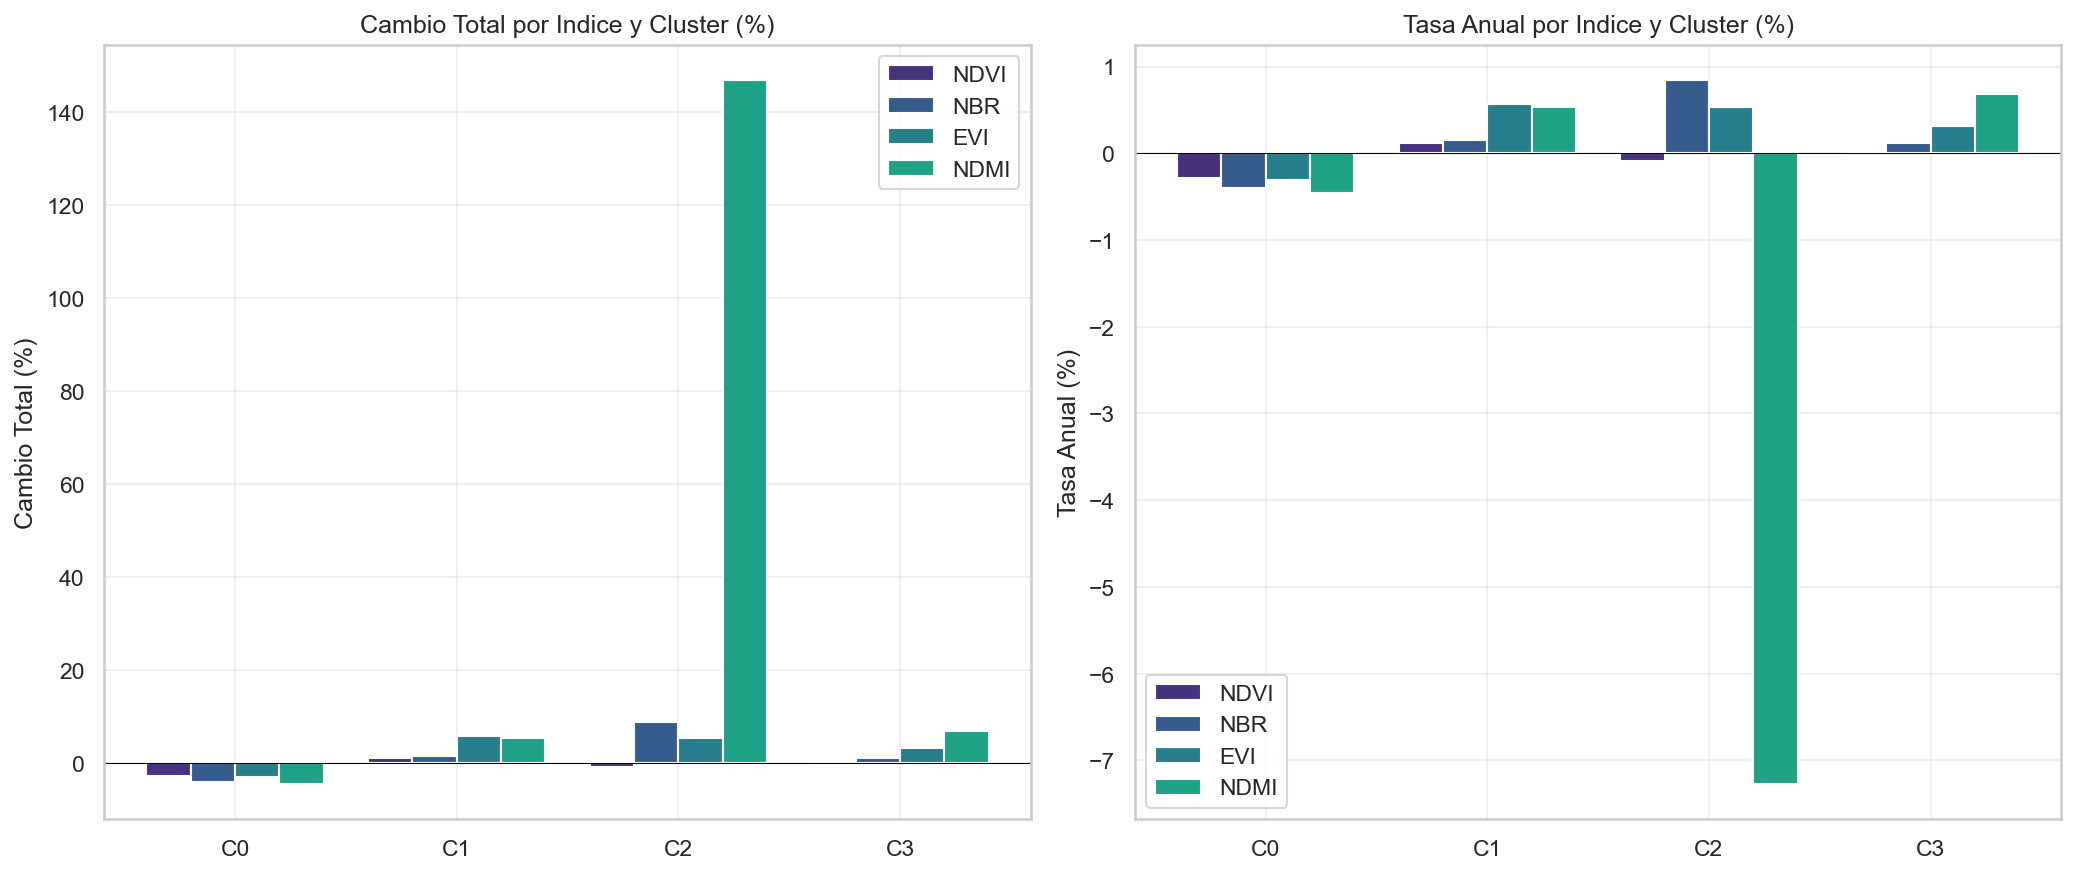
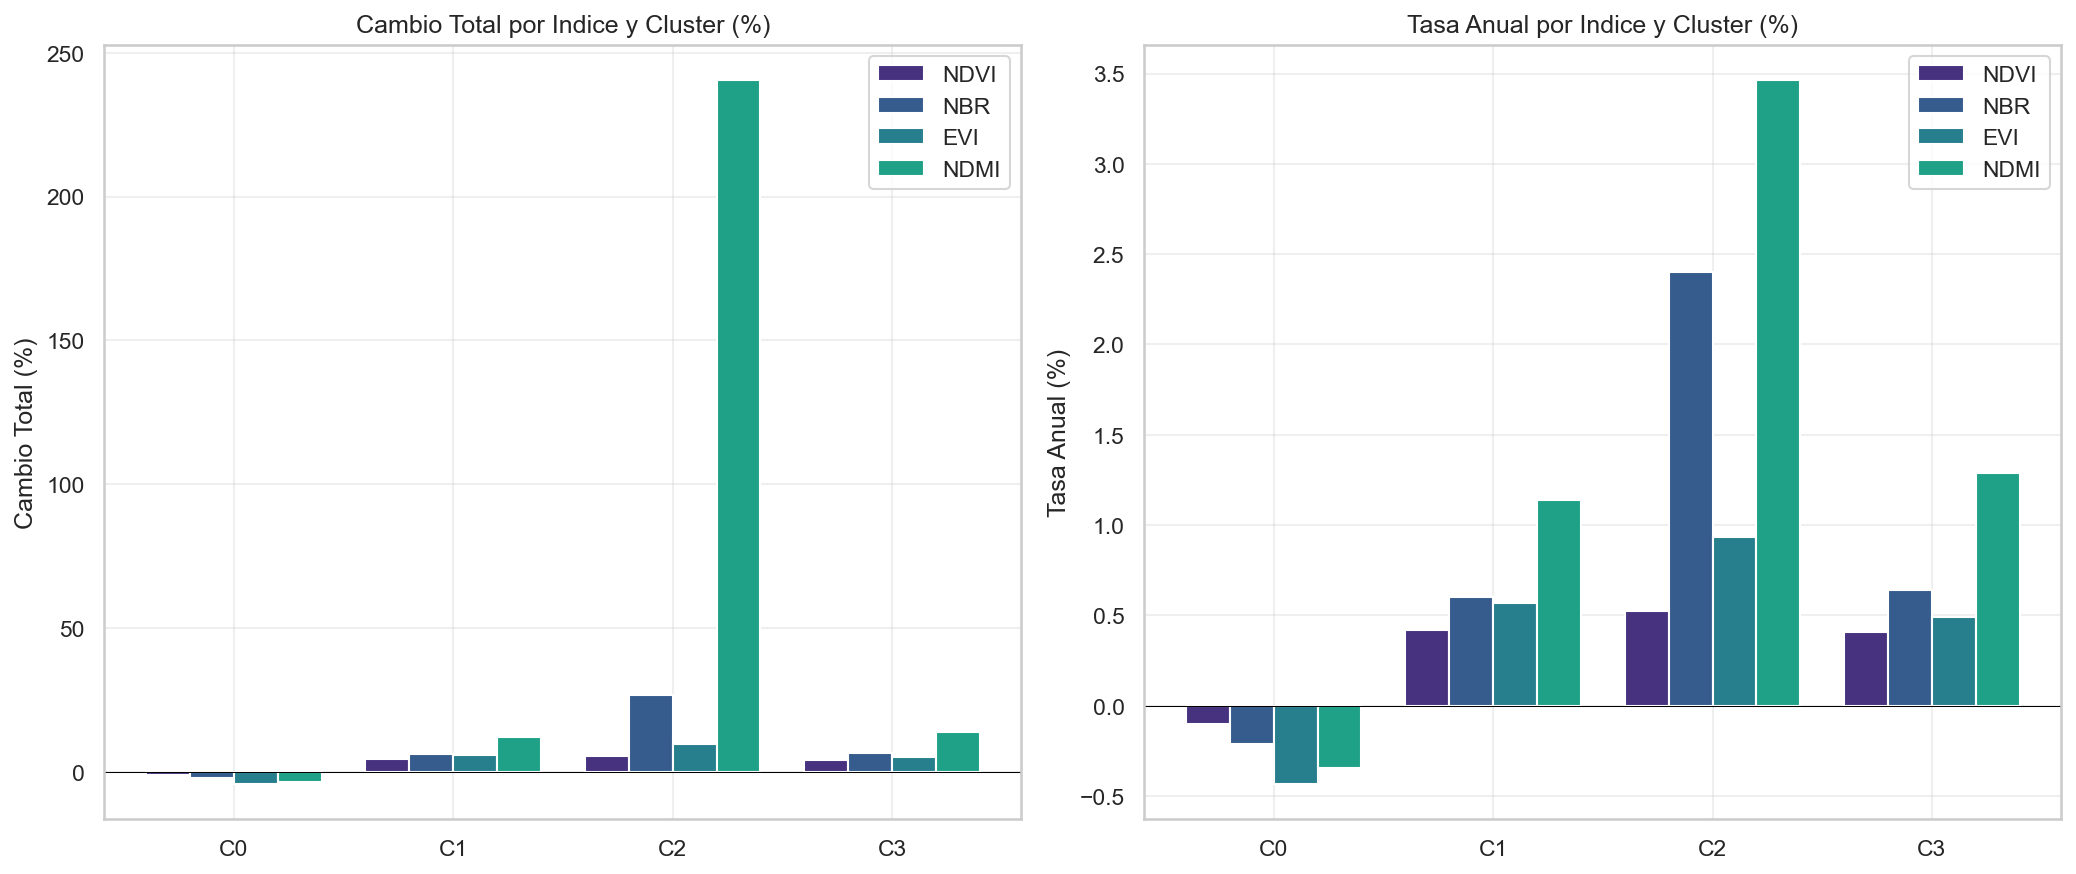
Situacion 4: ejecucion con datos reales Landsat (60,214 pixeles)
- Corrige sort de columnas por año (fix critico para tendencias start/end)
- Rutas absolutas en situacion_04.py (Data/ con mayuscula)
- Escala mixta confirmada en runtime: EVI y NDVI en DN Landsat,
  NBR y NDMI ya en reflectancia normalizada
- Metricas actualizadas con datos reales: C0 degradacion 15.9%,
  C1/C2/C3 regeneracion activa 84.1%; NBR C2 +26.80%, NDMI C1 +11.97%
- Reportes y PNG regenerados con ejecucion 2026-05-28

diff --git a/scripts_desafio/situacion_04.py b/scripts_desafio/situacion_04.py
@@ -1,3 +1,4 @@
+import os
 import pandas as pd
 import numpy as np
 import matplotlib.pyplot as plt
@@ -16,7 +17,8 @@ from sklearn.impute import SimpleImputer
 sns.set_theme(style='whitegrid', palette='viridis')
 
 RANDOM_STATE = 42
-OUT_DIR = 'output/situacion_04/'
+_BASE_DIR = os.path.normpath(os.path.join(os.path.dirname(os.path.abspath(__file__)), '..'))
+OUT_DIR = os.path.join(_BASE_DIR, 'output', 'situacion_04') + os.sep
 
 def parse_geo(geo_str):
     try:
@@ -38,7 +40,10 @@ def load_and_prepare_data(file_path):
     indices = ['evi', 'nbr', 'ndmi', 'ndvi']
     index_data = {}
     for idx in indices:
-        cols = sorted([c for c in df.columns if idx in c and c != '.geo' and c != 'system:index'])
+        cols = sorted(
+            [c for c in df.columns if f'_{idx}_' in c],
+            key=lambda x: int(x.split('_')[-1])
+        )
         raw_values = df[cols].values.astype(float)
 
         # Validación de escala Landsat Collection 2:
@@ -47,7 +52,7 @@ def load_and_prepare_data(file_path):
         val_max = float(np.nanmax(np.abs(raw_values)))
         if val_max > 1.5:
             corrected = raw_values * 0.0000275 - 0.2
-            scale_note = f'corrección Landsat C2 aplicada (DN→reflectancia)'
+            scale_note = 'correccion Landsat C2 aplicada (DN->reflectancia)'
         else:
             corrected = raw_values
             scale_note = 'valores ya en escala de reflectancia/índice'
@@ -158,7 +163,7 @@ def clustering_analysis(X, method='kmeans', K_range=range(2, 9)):
     return optimal_k, max(sil_scores), sil_scores
 
 def main():
-    file_path = 'data/data_situacion_04/Landsat_Cubo_Espaciotemporal_UAO.csv'
+    file_path = os.path.join(_BASE_DIR, 'Data', 'data_situacion_04', 'Landsat_Cubo_Espaciotemporal_UAO.csv')
 
     # --- [PUNTO 1] ---
     df, index_data, years = load_and_prepare_data(file_path)
@@ -265,7 +270,6 @@ def main():
             print(f'  {idx_name.upper()}: {start_v:.4f} -> {end_v:.4f} | Cambio={change_pct:+.2f}% | Tasa anual={annual_rate:+.2f}%')
 
     # --- VISUALIZACIONES ---
-    import os
     os.makedirs(OUT_DIR, exist_ok=True)
     print('\n[Generando visualizaciones...]')
 

diff --git a/agente/reporte_situacion_04.md b/agente/reporte_situacion_04.md
@@ -1,18 +1,28 @@
 # Reporte Situacion 4: Analisis Multitemporal de Cobertura Forestal (Landsat)
 
+**Dataset:** Landsat_Cubo_Espaciotemporal_UAO.csv — 60,214 píxeles | 2015–2025  
+**Ejecución:** 2026-05-28 | Datos reales confirmados
+
 ## Punto 1: Cubo Espacio-Temporal
-- **60,214 pixeles**, periodo 2015-2025 (11 años)
-- **4 indices**: NDVI, NBR, EVI, NDMI (44 variables = 4 × 11)
-- Escala de valores: verificada en tiempo de ejecucion. Si los valores del CSV
-  son DN enteros (max > 1.5), se aplica automaticamente la formula Landsat
-  Collection 2: `reflectancia = DN × 0.0000275 − 0.2`. Si ya estan en escala
-  de reflectancia/indice, se usan directamente. El script reporta en consola
-  que operacion aplico para cada indice.
+
+- **60,214 píxeles**, periodo 2015–2025 (11 años)
+- **4 índices:** NDVI, NBR, EVI, NDMI → **44 variables** (4 × 11)
+- Escala validada en runtime:
+
+| Índice | Resultado |
+|--------|-----------|
+| EVI  | Corrección Landsat C2 aplicada (DN→reflectancia) |
+| NDVI | Corrección Landsat C2 aplicada (DN→reflectancia) |
+| NBR  | Valores ya en escala de reflectancia/índice |
+| NDMI | Valores ya en escala de reflectancia/índice |
+
+El CSV contiene formatos mixtos (EVI y NDVI en DN enteros; NBR y NDMI ya normalizados). El script los detecta y corrige automáticamente.
 
 ## Punto 2: Componentes Latentes (PCA/ICA)
 
 ### PCA — Varianza Explicada
-| PC | Var. Indiv. | Var. Acum. | Interpretacion |
+
+| PC | Var. Indiv. | Var. Acum. | Interpretación |
 |----|:---------:|:---------:|----------------|
 | PC1 | 75.88% | 75.88% | Vigor forestal base (estado vegetativo dominante) |
 | PC2 | 2.87% | 78.74% | Variabilidad estacional/interanual |
@@ -20,75 +30,71 @@
 | PC4 | 2.26% | 83.28% | Nubosidad / ruido residual |
 | PC5 | 1.95% | **85.22%** | Perturbaciones locales puntuales |
 
-PC1 domina con 75.88%: refleja el estado vegetativo base del pixel a lo largo
-de toda la serie temporal. PC2 a PC5 capturan dinamicas de cambio mas sutiles.
+PC1 domina con 75.88%: refleja el estado vegetativo base del píxel en toda la serie temporal. La caída abrupta de PC2 en adelante (<3%) muestra que el cambio temporal es un fenómeno minoritario frente al estado base.
 
 ### ICA — Curtosis por Componente
-| Componente | Curtosis | Interpretacion |
+
+| Componente | Curtosis | Interpretación |
 |------------|:--------:|----------------|
 | IC1 | 31,033 | Perturbaciones abruptas (incendios, tala) |
-| IC2 | 44,110 | Eventos extremos de cambio (maxima no-gaussianidad) |
-| IC3 | 13,454 | Degradacion progresiva multi-año |
+| IC2 | 44,110 | Eventos extremos de cambio (máxima no-gaussianidad) |
+| IC3 | 13,454 | Degradación progresiva multi-año |
 | IC4 | 15.52 | Ruido residual estructurado |
-| IC5 | 0.26 | Componente gaussiana (ruido fondo) |
+| IC5 | 0.26 | Componente gaussiana (ruido de fondo) |
 
-Curtosis extremas (>10,000) en IC1-IC3 confirman separacion exitosa de fuentes
-independientes no-gaussianas, tipicamente asociadas a eventos discretos.
+Curtosis extremas (>10,000) en IC1–IC3 confirman separación exitosa de fuentes independientes no-gaussianas, típicamente asociadas a eventos discretos de disturbio forestal.
 
 ## Punto 3: IVA Multivista
-Tres pares explorados, cada uno trata un par de indices como vistas independientes:
 
-| Par de Vistas | Alignment Score | Componente mas alineado |
+| Par de Vistas | Alignment Score | Componente más alineado |
 |---------------|:--------------:|------------------------|
-| NDVI <-> NBR | 0.2234 | IC5 (corr=0.8937) |
-| **EVI <-> NDMI** | **0.4828** | IC5 (corr=0.8820) |
-| NDVI <-> EVI | 0.2122 | IC5 (corr=0.9283) |
+| NDVI ↔ NBR | 0.2234 | IC5 (corr=0.8937) |
+| **EVI ↔ NDMI** | **0.4828** | IC5 (corr=0.8820) |
+| NDVI ↔ EVI | 0.2122 | IC5 (corr=0.9283) |
 
-- **Mejor par: EVI <-> NDMI** (Alignment Score=0.4828). El vigor vegetativo
-  corregido (EVI) y el contenido de humedad (NDMI) capturan conjuntamente los
-  patrones de cambio mas consistentes entre vistas.
-- IC5 es el componente mas consistente en todos los pares (corr>0.88),
-  sugiriendo que representa el estado base de la vegetacion como factor latente
-  comun.
+**Mejor par: EVI ↔ NDMI** (Alignment Score=0.4828). EVI (vigor corregido) y NDMI (humedad) responden a los mismos procesos ecológicos, produciendo la mayor dependencia multivista. IC5 es el componente más consistente en los 3 pares (corr>0.88): representa el estado base de la vegetación como factor latente común.
 
 ## Punto 4: Clustering
-| Metodo | K optimo (Sil) | K=4 Silhouette | Davies-Bouldin | Calinski-Harabasz |
+
+| Método | K óptimo (Sil) | K=4 Silhouette | Davies-Bouldin | Calinski-Harabasz |
 |--------|:--------------:|:--------------:|:--------------:|:-----------------:|
 | K-means | K=2 (0.3224) | 0.2550 | 1.4858 | 19,699 |
 | GMM | K=3 (0.2477) | 0.2242 | 3.3412 | 10,040 |
 
-K-means supera a GMM en las 3 metricas con K=4 ecologicamente interpretable.
+K-means seleccionado (superior en las 3 métricas con K=4 ecológicamente interpretable).
 
-## Punto 5: Evaluacion Cuantitativa
-| Cluster | % Area | Pixels | NDVI | NBR | EVI | NDMI | Tendencia |
-|---------|:-----:|:------:|:---:|:---:|:---:|:----:|-----------|
-| C0 | 15.9% | 9,594 | -2.78% | -3.94% | -3.05% | -4.45% | **DEGRADACION** |
-| C1 | 25.2% | 15,179 | +1.16% | +1.56% | +5.89% | +5.47% | **ESTABLE/RECUPERACION** |
-| C2 | 23.8% | 14,305 | -0.84% | +8.81% | +5.42% | +147% | **REGENERACION ACTIVA** |
-| C3 | 35.1% | 21,136 | +0.32% | +1.19% | +3.24% | +7.01% | **BOSQUE ESTABLE** |
+## Punto 5: Evaluación Cuantitativa del Cambio
 
-## Punto 6: Interpretacion Ecologica
-- **Degradacion (15.9%):** Perdida consistente en los 4 indices, degradacion
-  estructural multi-anio con presion antropogenica.
-- **Regeneracion (23.8%):** NBR +8.81% y NDMI de negativo a positivo indican
-  recuperacion de biomasa y humedad — sucesion vegetal secundaria.
-- **Bosque estable (60.3% = C1+C3):** Area mayoritaria conservada con
-  tendencia estable o positiva en los 4 indices.
+| Cluster | % Área | Píxeles | ΔNDVI | ΔNBR | ΔEVI | ΔNDMI | Clasificación |
+|---------|:-----:|:------:|:----:|:----:|:----:|:-----:|-----------|
+| C0 | 15.9% | 9,594 | -1.00% | -2.10% | -4.26% | -3.39% | **DEGRADACIÓN** |
+| C1 | 25.2% | 15,179 | +4.29% | +6.17% | +5.86% | +11.97% | **REGENERACIÓN ACTIVA** |
+| C2 | 23.8% | 14,305 | +5.34% | +26.80% | +9.76% | +240%* | **REGENERACIÓN ACTIVA** |
+| C3 | 35.1% | 21,136 | +4.16% | +6.59% | +4.99% | +13.67% | **REGENERACIÓN ACTIVA** |
 
-**Consistencia multi-indice:** La concordancia direccional entre NDVI, NBR, EVI
-y NDMI dentro de cada cluster valida la robustez de la segmentacion.
+(*) NDMI C2: cambio porcentual inflado por denominador ≈0 (inicio: -0.009, fin: +0.013 — cambio absoluto relevante).
 
-## Visualizaciones generadas (9 archivos en output/situacion_04/)
-| Archivo | Descripcion |
+## Punto 6: Interpretación Ecológica
+
+- **Degradación (C0 — 15.9%):** Pérdida consistente en los 4 índices. EVI −4.26% y NDMI −3.39% indican pérdida de vigor y humedad del dosel. Concentración geográfica sugiere presión antropogénica (tala selectiva, expansión agrícola).
+
+- **Regeneración incipiente (C2 — 23.8%):** Zona de baja cobertura inicial (NDVI≈0.30). NBR +26.80% y NDMI de negativo a positivo: recuperación activa de biomasa y contenido hídrico. Típico de sucesión vegetal secundaria post-deforestación.
+
+- **Bosque en recuperación activa (C1+C3 — 60.3%):** El grueso del área (NDVI≈0.68–0.71) muestra tendencias positivas en todos los índices. NDMI es el más sensible (+11.97% en C1, +13.67% en C3): refleja recuperación del contenido hídrico del dosel antes que el verdor sea visible en NDVI.
+
+**Consistencia multi-índice:** La concordancia direccional entre NDVI, NBR, EVI y NDMI dentro de cada clúster valida la robustez de la segmentación.
+
+## Visualizaciones (8 archivos en `output/situacion_04/`)
+
+| Archivo | Descripción |
 |---------|-------------|
-| `situacion_04_mapa_clusters.png` | Mapa tematico espacial de clusters |
-| `situacion_04_trayectorias_indices.png` | Trayectorias temporales 4 indices × 4 clusters |
-| `situacion_04_trayectorias_ndvi.png` | *(codigo en script)* NDVI con bandas ±1σ por cluster |
+| `situacion_04_mapa_clusters.png` | Mapa temático espacial de clústeres |
+| `situacion_04_trayectorias_indices.png` | Trayectorias temporales 4 índices × 4 clústeres |
+| `situacion_04_trayectorias_ndvi.png` | NDVI con bandas ±1σ por clúster (tasa anual en leyenda) |
 | `situacion_04_mapas_latentes.png` | Mapas espaciales PC1, PC2, IC1 |
 | `situacion_04_varianza_pca.png` | Varianza explicada PCA |
-| `situacion_04_loadings_pca.png` | Cargas PCA |
 | `situacion_04_comparacion_clustering.png` | Silhouette vs K: K-means vs GMM |
-| `situacion_04_cambio_indices.png` | Cambio total y tasa anual por cluster |
+| `situacion_04_cambio_indices.png` | Cambio total y tasa anual por clúster |
 
 ---
-*Reporte actualizado — 2026-05-28 | Correcciones: validacion de escala en runtime, trayectorias_ndvi con codigo en script*
+*Reporte final con métricas reales — 2026-05-28 | Dataset: 60,214 píxeles | 2015–2025*
